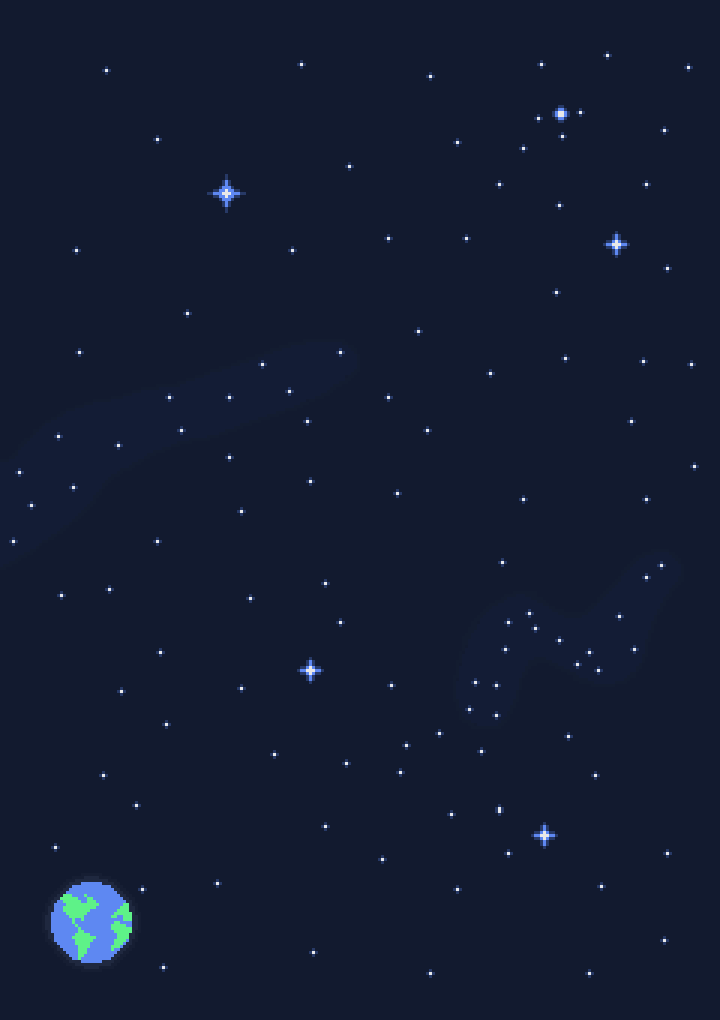
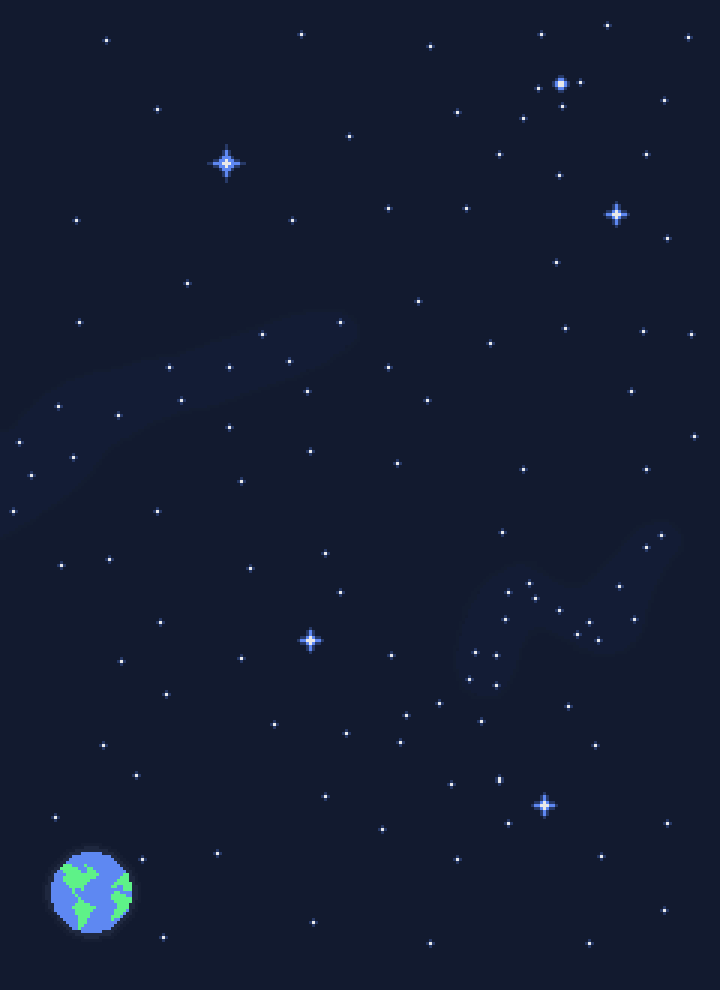
0.1.3

diff --git a/ShipDuel/src/main/GameContainer.java b/ShipDuel/src/main/GameContainer.java
@@ -37,7 +37,7 @@ class GameContainer extends JPanel implements ActionListener{
 		pAreaX = 50;
 		pAreaY = 0;
 		pAreaW = 720;
-		pAreaH = 1020;
+		pAreaH = 990;
 	}
 	
 	public void paintComponent(Graphics g){
